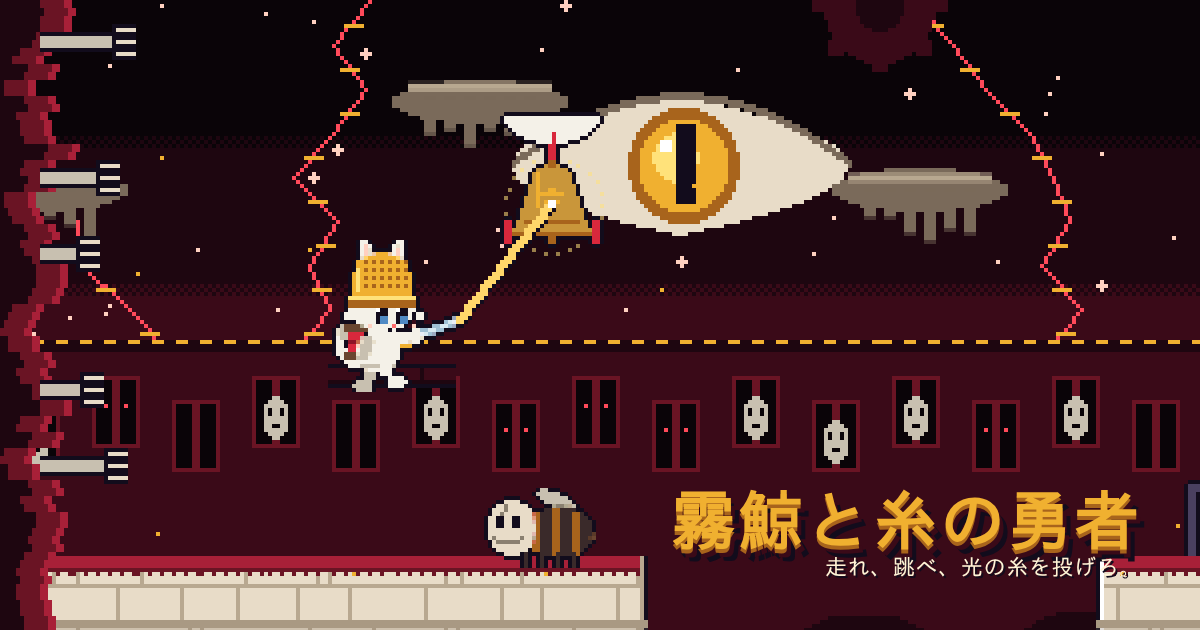
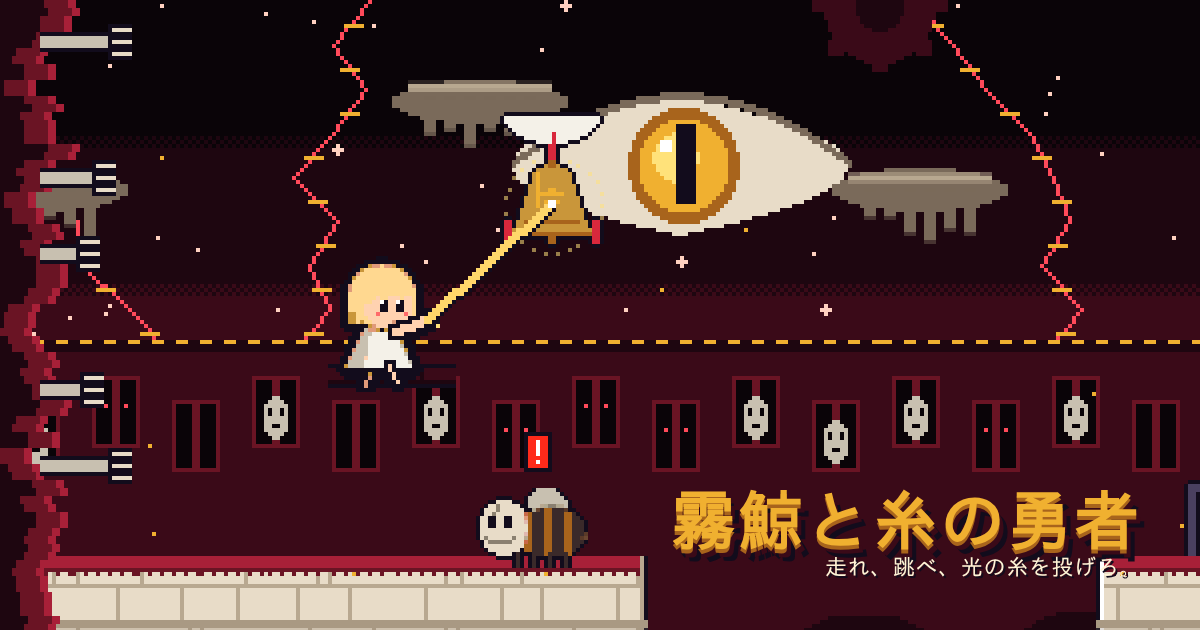
[GAME] 霧鯨と糸の勇者：主人公を飾りのない小さな少女ミオに（白いワンピース・金髪のボブ・裸足。こわいと頭を抱えてしゃがみ、泣く）
Claude-Session: https://claude.ai/code/session_01MokQnt7AyWkb7A3uAYuoAR

diff --git a/site/games/mist-whale-thread-hero/pixart.js b/site/games/mist-whale-thread-hero/pixart.js
@@ -19,106 +19,67 @@ function blit(ctx, img, x, y, flip = false) {
   ctx.save(); ctx.translate(x + img.width, y); ctx.scale(-1, 1); ctx.drawImage(img, 0, 0); ctx.restore();
 }
 
-// ───────────────────────── 主人公：夢縫い見習いの子猫ミオ ─────────────────────────
-// 二本足で歩く白い子猫。ぶかぶかの「指ぬきの兜」、背丈より長い「縫い針の杖」、背中に赤い糸巻き。こわがり。
+// ───────────────────────── 主人公：迷いこんだ少女ミオ（小さく、か弱い） ─────────────────────────
+// 飾りは何もない。白いワンピース、やわらかい金髪のボブ、裸足。弱さは姿勢と動きで見せる。
 const HC = {
-  fur: '#f4f1e8', furD: '#c8c0b0', pink: '#ffd0c0', nose: '#ff6b6b', eye: '#120c1c', iris: '#4f8ac4', white: '#ffffff', tear: '#7fc8e8',
-  gold: '#f0b030', goldD: '#a8641c', goldL: '#ffe27a', steel: '#e8eef6', steelD: '#9aa8c0', spool: '#d8283c', spoolD: '#8e1426', wood: '#6a4630',
+  out: '#120c1c', skin: '#ffd2b0', skinD: '#e09a7a', hair: '#ffd890', hairD: '#c9963a', dress: '#f4f1e8', dressD: '#c8c0b0',
+  eye: '#120c1c', white: '#ffffff', cheek: '#ff6b6b', tear: '#7fc8e8', glow: '#ffe27a',
 };
-const HW = 36; const HH = 38; const HCX = 15; // 足元は y=37
+const HW = 30; const HH = 36; const HCX = 14; // 足元は y=35
 function heroDraw(g, f) {
-  const b = f.bob || 0; const hide = f.expr === 'scared'; const puff = hide ? 1.2 : 0;
-  // しっぽ
-  const ts = f.tail || 0;
-  g.strokeStyle = HC.fur; g.lineCap = 'round'; g.lineWidth = 2.6 + puff * 2;
-  g.beginPath(); g.moveTo(10, 28 + b); g.quadraticCurveTo(3, 27 + b, 3 + ts, 19 + b - puff); g.stroke();
-  g.strokeStyle = HC.furD; g.lineWidth = 2.4 + puff * 2; g.beginPath(); g.moveTo(3 + ts, 21 + b - puff); g.lineTo(3 + ts, 19 + b - puff); g.stroke();
-  // 背中の糸巻き
-  g.fillStyle = HC.wood; g.fillRect(6, 18 + b, 6, 2); g.fillRect(6, 25 + b, 6, 2);
-  g.fillStyle = HC.spool; g.fillRect(7, 20 + b, 4, 5);
-  g.fillStyle = HC.spoolD; g.fillRect(7, 22 + b, 4, 1);
-  // 脚（短い二本足）
-  const leg = (x, a, back) => {
-    const fx = x + a * 3; const lift = a > 0.4 ? 1 : 0;
-    g.fillStyle = back ? HC.furD : HC.fur;
-    g.fillRect(Math.round(x) - 1, 28 + b, 3, 4 - lift);
-    g.beginPath(); g.ellipse(fx + 1, 32.5 - lift, 2.6, 1.6, 0, 0, Math.PI * 2); g.fill();
-  };
+  const b = f.bob || 0; const sc = f.expr === 'scared';
+  const O = HC.out;
+  const limb = (x0, y0, x1, y1, col, w = 2) => { g.fillStyle = O; pxLine(g, x0, y0, x1, y1, w + 2); g.fillStyle = col; pxLine(g, x0, y0, x1, y1, w); };
+  // 脚（細い・裸足）
+  const legTop = sc ? 30 : 28;
+  const leg = (x, a, back) => { const fx = x + a * 3; const fy = sc ? 33 : 33 - (a > 0.4 ? 1 : 0); limb(x, legTop + b * 0.5, fx, fy, back ? HC.skinD : HC.skin, 1); };
   leg(12, -(f.legA || 0), true);
-  // 胴
-  g.fillStyle = HC.fur; g.beginPath(); g.ellipse(14.5, 25 + b, 5.6 + puff * 0.5, 5.2 + puff * 0.3, 0, 0, Math.PI * 2); g.fill();
-  g.fillStyle = HC.furD; g.fillRect(10, 28 + b, 9, 1);
-  leg(16, f.legA || 0, false);
   // 奥の腕
-  const shoulder = [17, 22 + b];
-  if (!hide) { g.strokeStyle = HC.furD; g.lineWidth = 2.6; g.beginPath(); g.moveTo(12, 22 + b); g.lineTo(11 - (f.armA || 0) * 3, 26 + b); g.stroke(); }
-  // 頭（大きくて丸い）
-  const hy = 13 + b + (hide ? 2 : 0);
-  g.fillStyle = HC.fur; g.beginPath(); g.ellipse(15.5, hy, 8.4, 7.2, 0, 0, Math.PI * 2); g.fill();
-  // ほっぺの毛
-  g.fillRect(6, hy + 2, 2, 2); g.fillRect(24, hy + 2, 2, 2);
-  // 指ぬきの兜（こわいと目深にかぶる）
-  const hd = hide ? 5 : (f.helmDrop || 0);
-  // 指ぬき：まっすぐな筒に丸い天井、下に縁
-  g.fillStyle = HC.gold; g.beginPath();
-  g.moveTo(7.5, hy + hd); g.lineTo(8.5, hy - 8 + hd); g.quadraticCurveTo(9, hy - 13 + hd, 15.5, hy - 13 + hd); g.quadraticCurveTo(22, hy - 13 + hd, 22.5, hy - 8 + hd); g.lineTo(23.5, hy + hd); g.closePath(); g.fill();
-  g.fillStyle = HC.goldD; g.fillRect(7, hy - 1 + hd, 17, 2);
-  g.fillStyle = HC.goldL; g.fillRect(7, hy - 2 + hd, 17, 1);
-  // 耳（兜の穴から出ている。こわいと倒れる）
-  if (hide) {
-    g.fillStyle = HC.fur; g.beginPath(); g.moveTo(9, hy - 4); g.lineTo(3, hy - 3); g.lineTo(8, hy - 1); g.fill();
-  } else {
-    g.fillStyle = HC.fur;
-    g.beginPath(); g.moveTo(9.5, hy - 11 + hd); g.lineTo(10 + (f.earTw || 0), hy - 18 + hd); g.lineTo(14, hy - 12.5 + hd); g.fill();
-    g.beginPath(); g.moveTo(17, hy - 12.5 + hd); g.lineTo(21, hy - 18 + hd); g.lineTo(21.5, hy - 11 + hd); g.fill();
-    g.fillStyle = HC.pink; g.beginPath(); g.moveTo(11, hy - 12 + hd); g.lineTo(11.2, hy - 15.5 + hd); g.lineTo(13, hy - 12.8 + hd); g.fill();
-    g.beginPath(); g.moveTo(18.2, hy - 12.8 + hd); g.lineTo(20.4, hy - 15.5 + hd); g.lineTo(20.3, hy - 12 + hd); g.fill();
-  }
-  // 手前の腕と縫い針の杖
-  let hand; let tip;
-  if (f.pose === 'throw') { hand = [24, 21 + b]; tip = [35, 17 + b]; }
-  else if (f.pose === 'up') { hand = [22, 17 + b]; tip = [26, 3 + b]; }
-  else if (hide) { hand = [22, hy - 2 + hd]; tip = [26, 30]; }
-  else { hand = [21 + (f.armA || 0) * 2, 25 + b]; tip = [25 + (f.armA || 0) * 2, 6 + b]; }
-  // 針：持ち手から先端まで
-  const back = [hand[0] - (tip[0] - hand[0]) * 0.3, hand[1] - (tip[1] - hand[1]) * 0.3];
-  g.strokeStyle = HC.steelD; g.lineWidth = 2; g.lineCap = 'butt';
-  g.beginPath(); g.moveTo(back[0], back[1]); g.lineTo(tip[0], tip[1]); g.stroke();
-  g.strokeStyle = HC.steel; g.lineWidth = 1; g.beginPath(); g.moveTo(back[0], back[1]); g.lineTo(tip[0], tip[1]); g.stroke();
-  // 針穴に通った金の糸
-  g.fillStyle = HC.gold; g.fillRect(Math.round(back[0]) - 1, Math.round(back[1]) - 1, 3, 3);
-  g.strokeStyle = HC.fur; g.lineWidth = 2.8; g.lineCap = 'round';
-  g.beginPath(); g.moveTo(shoulder[0], shoulder[1]); g.lineTo(hand[0], hand[1]); g.stroke();
-  g.fillStyle = HC.fur; g.beginPath(); g.ellipse(hand[0], hand[1], 1.8, 1.8, 0, 0, Math.PI * 2); g.fill();
-  f._hand = tip;
+  const a = f.armA || 0;
+  if (f.pose === 'up') limb(10, 21 + b, 5, 17 + b, HC.skinD);
+  else if (f.pose === 'run') limb(12, 21 + b, 8 - a * 2, 25 + b, HC.skinD);
+  // ワンピース
+  const fl = f.flare || 0;
+  g.fillStyle = O; g.beginPath(); g.moveTo(10, 19 + b); g.lineTo(18, 19 + b); g.lineTo(21 + fl, 30 + b * 0.5 - (sc ? -1 : 0)); g.lineTo(7 - fl, 30 + b * 0.5 - (sc ? -1 : 0)); g.closePath(); g.lineWidth = 2; g.lineJoin = 'round'; g.strokeStyle = O; g.stroke(); g.fill();
+  g.fillStyle = HC.dress; g.beginPath(); g.moveTo(10.5, 19.5 + b); g.lineTo(17.5, 19.5 + b); g.lineTo(20.5 + fl, 29.5 + b * 0.5 + (sc ? 1 : 0)); g.lineTo(7.5 - fl, 29.5 + b * 0.5 + (sc ? 1 : 0)); g.closePath(); g.fill();
+  g.fillStyle = HC.dressD; g.beginPath(); g.moveTo(10.5, 19.5 + b); g.lineTo(12, 19.5 + b); g.lineTo(10, 29.5 + b * 0.5 + (sc ? 1 : 0)); g.lineTo(7.5 - fl, 29.5 + b * 0.5 + (sc ? 1 : 0)); g.closePath(); g.fill();
+  leg(16, f.legA || 0, false);
+  // 頭：やわらかいボブの髪
+  const hy = 12 + b + (sc ? 2 : 0);
+  g.fillStyle = O; g.beginPath(); g.ellipse(14.5, hy, 9.4, 8.8, 0, 0, Math.PI * 2); g.fill();
+  g.fillRect(5, hy, 4, 8); g.fillRect(20, hy, 4, 8);
+  g.fillStyle = HC.hair; g.beginPath(); g.ellipse(14.5, hy, 8.6, 8, 0, 0, Math.PI * 2); g.fill();
+  g.fillRect(6, hy, 3, 7 + (f.hairBounce || 0)); g.fillRect(20, hy, 3, 7 + (f.hairBounce || 0));
+  g.fillStyle = HC.hairD; g.fillRect(6, hy + 4, 2, 3); 
+  // 顔
+  g.fillStyle = HC.skin; g.beginPath(); g.ellipse(16, hy + 2.5, 6.2, 5.6, 0, 0, Math.PI * 2); g.fill();
+  // 前髪
+  g.fillStyle = HC.hair; g.beginPath(); g.moveTo(8, hy - 1); g.quadraticCurveTo(15, hy - 7, 23, hy - 1); g.lineTo(23, hy + 1); g.lineTo(21, hy); g.lineTo(19.5, hy + 1.5); g.lineTo(17.5, hy - 0.5); g.lineTo(15.5, hy + 1.5); g.lineTo(13.5, hy); g.lineTo(11, hy + 2); g.lineTo(9, hy + 1); g.closePath(); g.fill();
+  // 手前の腕
+  let hand;
+  if (f.pose === 'throw') { hand = [26, 18 + b]; limb(18, 21 + b, hand[0], hand[1], HC.skin); }
+  else if (f.pose === 'up') { hand = [24, 17 + b]; limb(18, 21 + b, hand[0], hand[1], HC.skin); }
+  else if (f.pose === 'run') { hand = [20 + a * 2, 25 + b]; limb(18, 21 + b, hand[0], hand[1], HC.skin); }
+  else if (sc) { hand = [20, hy - 3]; limb(17, 22 + b, 21, hy - 2, HC.skin); limb(11, 22 + b, 9, hy - 3, HC.skinD); }
+  else { hand = [19, 26 + b]; limb(18, 21 + b, 19, 26 + b, HC.skin); }
+  f._hand = hand;
 }
 function heroInner(f) {
   return (g) => {
-    const b = f.bob || 0; const e = f.expr || 'normal'; const hide = e === 'scared';
-    const hy = 13 + b + (hide ? 2 : 0); const hd = hide ? 5 : (f.helmDrop || 0);
-    // 指ぬきのくぼみ
-    g.fillStyle = HC.goldD;
-    for (let y = hy - 11 + hd; y < hy - 3 + hd; y += 2) for (let x = 10 + ((y - hy) & 1); x < 22; x += 2) g.fillRect(x, y, 1, 1);
-    g.fillStyle = HC.goldL; g.fillRect(9, hy - 9 + hd, 1, 6);
-    const ey = hy + 2;
-    if (hide) {
-      // 兜の下から震える口元だけ
-      g.fillStyle = HC.eye; g.fillRect(17, ey + 4, 1, 1); g.fillRect(19, ey + 4, 1, 1); g.fillRect(18, ey + 5, 1, 1);
-      g.fillStyle = HC.tear; g.fillRect(22, ey + 2, 1, 2);
-      return;
-    }
-    if (e === 'blink') { g.fillStyle = HC.eye; g.fillRect(14, ey + 1, 3, 1); g.fillRect(19, ey + 1, 3, 1); }
-    else if (e === 'hurt') {
-      g.fillStyle = HC.eye; g.fillRect(14, ey, 1, 1); g.fillRect(15, ey + 1, 1, 1); g.fillRect(14, ey + 2, 1, 1); g.fillRect(21, ey, 1, 1); g.fillRect(20, ey + 1, 1, 1); g.fillRect(21, ey + 2, 1, 1);
-      g.fillStyle = HC.tear; g.fillRect(15, ey + 3, 1, 2);
+    const b = f.bob || 0; const e = f.expr || 'normal';
+    const y = 13 + b + (e === 'scared' ? 2 : 0);
+    if (e === 'blink') { g.fillStyle = HC.eye; g.fillRect(14, y + 2, 2, 1); g.fillRect(18, y + 2, 2, 1); }
+    else if (e === 'hurt' || e === 'scared') {
+      g.fillStyle = HC.eye; g.fillRect(14, y + 1, 1, 1); g.fillRect(15, y + 2, 1, 1); g.fillRect(19, y + 1, 1, 1); g.fillRect(18, y + 2, 1, 1);
+      g.fillStyle = HC.tear; g.fillRect(14, y + 3, 1, 2); g.fillRect(19, y + 3, 1, 2);
+      g.fillStyle = HC.eye; g.fillRect(16, y + 5, 2, 1);
     } else {
-      g.fillStyle = HC.eye; g.fillRect(14, ey - 1, 3, 4); g.fillRect(19, ey - 1, 3, 4);
-      g.fillStyle = HC.iris; g.fillRect(15, ey + 1, 2, 2); g.fillRect(20, ey + 1, 2, 2);
-      g.fillStyle = HC.white; g.fillRect(14, ey - 1, 1, 1); g.fillRect(19, ey - 1, 1, 1);
+      g.fillStyle = HC.eye; g.fillRect(14, y, 2, 3); g.fillRect(18, y, 2, 3);
+      g.fillStyle = HC.white; g.fillRect(14, y, 1, 1); g.fillRect(18, y, 1, 1);
+      g.fillStyle = HC.skinD; g.fillRect(17, y + 5, 1, 1);
     }
-    g.fillStyle = HC.nose; g.fillRect(18, ey + 3, 1, 1);
-    g.fillStyle = HC.eye; g.fillRect(17, ey + 4, 1, 1); g.fillRect(19, ey + 4, 1, 1);
-    g.fillStyle = HC.pink; g.fillRect(12, ey + 3, 1, 1); g.fillRect(23, ey + 3, 1, 1);
+    g.fillStyle = HC.cheek; g.fillRect(13, y + 3, 1, 1); g.fillRect(20, y + 3, 1, 1);
+    if (f.pose === 'throw') { g.fillStyle = HC.glow; g.fillRect(27, 16 + b, 2, 2); g.fillRect(29, 15 + b, 1, 1); g.fillRect(28, 19 + b, 1, 1); }
   };
 }
 const heroCache = new Map();
@@ -126,24 +87,23 @@ function heroFrame(f) {
   const key = JSON.stringify(f);
   if (heroCache.has(key)) return heroCache.get(key);
   const fr = { ...f };
-  const img = makeSprite(HW, HH, (g) => { g.save(); g.translate(0, 4); heroDraw(g, fr); g.restore(); }, { inner: (g) => { g.save(); g.translate(0, 4); heroInner(fr)(g); g.restore(); } });
-  const v = { img, hand: [fr._hand[0], fr._hand[1] + 4] };
+  const img = makeSprite(HW, HH, (g) => { g.save(); g.translate(0, 1); heroDraw(g, fr); g.restore(); }, { pal: [HC.out, HC.skin, HC.skinD, HC.hair, HC.hairD, HC.dress, HC.dressD], inner: (g) => { g.save(); g.translate(0, 1); heroInner(fr)(g); g.restore(); } });
+  const v = { img, hand: [fr._hand[0], fr._hand[1] + 1] };
   heroCache.set(key, v);
   return v;
 }
 export function heroPose(p, t, opts = {}) {
   const run = Math.abs(p.vx) > 20 && p.onGround;
   const air = !p.onGround;
-  const f = { bob: 0, legA: 0, armA: 0, pose: 'idle', tail: Math.floor(t * 1.5) % 2, expr: 'normal', helmDrop: 0, earTw: 0 };
-  if (run) { const ph = Math.floor(p.anim * 0.07) % 4; f.legA = [0.9, 0, -0.9, 0][ph]; f.bob = ph % 2 ? -1 : 0; f.armA = [-0.6, 0, 0.6, 0][ph]; f.tail = ph % 2 ? 2 : 0; }
-  else if (air) { f.legA = p.vy < 0 ? 0.7 : -0.5; f.pose = p.vy < 0 ? 'up' : 'idle'; f.tail = 3; f.bob = p.vy < 0 ? -1 : 0; }
+  const f = { bob: 0, legA: 0, armA: 0, pose: 'idle', expr: 'normal', flare: 0, hairBounce: 0 };
+  if (run) { const ph = Math.floor(p.anim * 0.07) % 4; f.pose = 'run'; f.legA = [0.9, 0, -0.9, 0][ph]; f.bob = ph % 2 ? -1 : 0; f.armA = [-0.8, 0, 0.8, 0][ph]; f.hairBounce = ph % 2; f.flare = 1; }
+  else if (air) { f.legA = p.vy < 0 ? 0.6 : -0.4; f.pose = 'up'; f.bob = p.vy < 0 ? -1 : 0; f.flare = 2; f.hairBounce = p.vy < 0 ? 0 : 1; }
   else {
-    if (p.landed > 0) f.helmDrop = 2; // 着地で兜がずり落ちる
-    if (Math.floor(t * 0.8) % 5 === 0 && Math.floor(t * 8) % 2) f.earTw = 1; // きょろきょろ耳が動く
+    if (p.landed > 0) f.bob = 1;
     if (Math.floor(t * 10) % 37 === 0) f.expr = 'blink';
   }
-  if (opts.scared && !opts.hurt && !air) { f.expr = 'scared'; f.bob = 2; f.legA = 0; }
-  if (opts.throwing) { f.pose = 'throw'; if (f.expr === 'scared') f.expr = 'normal'; }
+  if (opts.scared && !opts.hurt && !air && !opts.throwing) { f.expr = 'scared'; f.pose = 'idle'; f.bob = 0; f.legA = 0; }
+  if (opts.throwing) f.pose = 'throw';
   if (opts.hurt) f.expr = 'hurt';
   return heroFrame(f);
 }

diff --git a/site/games/mist-whale-thread-hero/game.js b/site/games/mist-whale-thread-hero/game.js
@@ -323,8 +323,8 @@ function renderTitle() {
   const hx = Math.round(Math.min(w * 0.12, 50)); const jump = Math.round(Math.abs(Math.sin(t * 2.2)) * 6);
   const footY = Math.round(h * (w < 200 ? 0.7 : 0.86));
   if (w < 200) { ctx.fillStyle = '#120c1c'; ctx.fillRect(hx - 4, footY, 30 * sc + 8, 5); ctx.fillStyle = '#5a7488'; ctx.fillRect(hx - 3, footY, 30 * sc + 6, 3); ctx.fillStyle = '#3a6a50'; ctx.fillRect(hx - 3, footY, 30 * sc + 6, 1); }
-  const hy = footY - 37 * sc - jump;
-  const bx = Math.round(hx + Math.min(w * 0.5, 150)); const by = footY - 38 * sc - 10 + Math.round(Math.sin(t * 2) * 2);
+  const hy = footY - 35 * sc - jump;
+  const bx = Math.round(hx + Math.min(w * 0.5, 150)); const by = footY - 36 * sc - 10 + Math.round(Math.sin(t * 2) * 2);
   const hand = P.drawHeroBig(ctx, hx, hy, sc, t, { throwing: true, onGround: false, vy: -10 });
   P.drawThread(ctx, { x: hand[0], y: hand[1] }, { x: bx, y: by }, colorNow(), 'hold', 1);
   P.drawStarBell(ctx, bx, by, t, 2);
@@ -527,7 +527,7 @@ function renderNote() {
       return `<div class="mem"><b>${L.CHAPTERS[ci].sub}『${L.CHAPTERS[ci].name}』</b>${S.lines.map((l) => `<p>${l}</p>`).join('')}<p class="secret">${full ? S.secret : `隠された回想：この章の星鈴 ${L.chapterStars(save, ci)}/15`}</p></div>`;
     }).join('') + `<h3>結末</h3>` + Object.entries(L.ENDINGS).map(([k, E]) => `<div class="mem"><b>${save.seen[`end_${k}`] ? `『${E.title}』` : '？？？'}</b>${save.seen[`end_${k}`] ? `<p>${E.text}</p>` : ''}</div>`).join('') + '<p class="muted">結末は星鈴の数と評価で変わる（3種）。</p>';
   } else if (noteTab === 'how') {
-    body.innerHTML = `<h3>ミオ</h3><p>霧鯨の夢を縫う「夢縫い」の見習い子猫。武器はぶかぶかの指ぬきの兜と、背丈より長い縫い針だけ。こわがりで、こわいものが来ると兜をかぶって縮こまる。</p><h3>操作</h3><div class="keys"><span><kbd>←</kbd><kbd>→</kbd> / <kbd>A</kbd><kbd>D</kbd></span><span>走る</span><span><kbd>Space</kbd> / <kbd>↑</kbd></span><span>ジャンプ（長押しで高く）</span><span><kbd>J</kbd></span><span>糸を投げる・縛った敵を引く</span><span><kbd>Esc</kbd></span><span>一時停止</span></div>
+    body.innerHTML = `<h3>ミオ</h3><p>眠る霧鯨の夢に迷いこんだ小さな女の子。指先から光の糸を出せる。こわがりで、こわいものが近づくと頭を抱えてしゃがみこむ。</p><h3>操作</h3><div class="keys"><span><kbd>←</kbd><kbd>→</kbd> / <kbd>A</kbd><kbd>D</kbd></span><span>走る</span><span><kbd>Space</kbd> / <kbd>↑</kbd></span><span>ジャンプ（長押しで高く）</span><span><kbd>J</kbd></span><span>糸を投げる・縛った敵を引く</span><span><kbd>Esc</kbd></span><span>一時停止</span></div>
       <p>スマホは画面下の4つのボタン。左右とジャンプ・糸は同時に押せる。</p>
       <h3>糸</h3><p>押した方向（なければ向いている方向）の、届く範囲で一番近い対象に自動でかかる。金の輪が出ているのが次の標的。</p>
       <ul><li><b>金のフック</b>：その場所まで一気に飛ぶ。空中でも投げられる。</li><li><b>レバー・鐘</b>：引くと橋が出る・扉が開く・灯台が開く。</li><li><b>敵</b>：1秒縛る。縛っている間にもう一度 J で手元へ引き寄せる。鈴スイッチに通す・いばらに落とす・別の敵にぶつけると倒せる。</li><li><b>種・雲の舟</b>：手元へ引き寄せる。舟に乗ってフックへ投げると舟ごと進む。</li></ul>

diff --git a/site/games/mist-whale-thread-hero/logic.js b/site/games/mist-whale-thread-hero/logic.js
@@ -979,15 +979,15 @@ export function variantFor(save, i, rnd = Math.random) {
 // ───────────────────────── 物語 ─────────────────────────
 export const STORY = [
   {
-    lines: ['夢縫いの見習い、子猫のミオ。霧鯨は空を泳ぎながら眠っている。', 'その背の草原で、星鈴がひとつ、またひとつ鳴った。', '「この子、夢の帰り道をなくしたんだ」', '指ぬきの兜をかぶりなおし、ミオは縫い針を握って森へ向かう。'],
-    secret: '星鈴15個の回想：鯨の背中の草は、ミオがなくした首輪のリボンの色をしていた。',
+    lines: ['眠る霧鯨の夢に、小さな女の子が迷いこんだ。', 'その背の草原で、星鈴がひとつ、またひとつ鳴った。', '「この子、夢の帰り道をなくしたんだ」', 'ミオは指先に光る糸を握りしめ、森へ向かう。'],
+    secret: '星鈴15個の回想：鯨の背中の草は、ミオがなくしたリボンの色をしていた。',
   },
   {
     lines: ['眠る森は、鯨が見た夢の残りかすでできている。', '牙灯も海蛇も、本当は夢を守る番人だった。', '「だれかが、夢の縫い目をほどいたんだね」', '森の奥で、空がひび割れる音がした。'],
     secret: '星鈴15個の回想：海蛇の鱗には、ミオが生まれた夜に聞いた子守唄が刻まれていた。',
   },
   {
-    lines: ['夢の底で、ほつれは鯨の夢そのものを食べていた。', '3つの鐘が鳴り、霧は金色に変わる。', 'ミオは兜の下で震えながら、最後の糸を張って割れた空を縫い止めた。', '霧鯨が、ゆっくりと目を開ける。'],
+    lines: ['夢の底で、ほつれは鯨の夢そのものを食べていた。', '3つの鐘が鳴り、霧は金色に変わる。', 'ミオは震える手で最後の糸を張り、割れた空を縫い止めた。', '霧鯨が、ゆっくりと目を開ける。'],
     secret: '星鈴15個の回想：夢をほどいたのは、ひとりぼっちを怖がった鯨自身だった。',
   },
 ];

diff --git a/site/games/mist-whale-thread-hero/pixel.js b/site/games/mist-whale-thread-hero/pixel.js
@@ -35,14 +35,19 @@ function buildLut() {
 const hexToInt = (h) => { const r = parseInt(h.slice(1, 3), 16); const g = parseInt(h.slice(3, 5), 16); const b = parseInt(h.slice(5, 7), 16); return (255 << 24) | (b << 16) | (g << 8) | r; };
 
 // にじみを消し、色をパレットに寄せ、縁取りする
-export function crisp(g, w, h, { outline = '#120c1c', inner = null } = {}) {
+function nearestFn(pal) {
+  const P = pal.map((h) => [parseInt(h.slice(1, 3), 16), parseInt(h.slice(3, 5), 16), parseInt(h.slice(5, 7), 16), hexToInt(h)]);
+  return (r, g, b) => { let best = P[0]; let bd = Infinity; for (const c of P) { const d = (r - c[0]) ** 2 * 2 + (g - c[1]) ** 2 * 4 + (b - c[2]) ** 2 * 3; if (d < bd) { bd = d; best = c; } } return best[3]; };
+}
+export function crisp(g, w, h, { outline = '#120c1c', inner = null, pal = null } = {}) {
   if (!LUT) buildLut();
+  const near = pal ? nearestFn(pal) : null;
   const img = g.getImageData(0, 0, w, h);
   const d = img.data; const px = new Uint32Array(d.buffer);
   for (let i = 0; i < w * h; i++) {
     const o = i * 4;
     if (d[o + 3] < 128) { px[i] = 0; continue; }
-    px[i] = LUT[((d[o] >> 3) << 10) | ((d[o + 1] >> 3) << 5) | (d[o + 2] >> 3)];
+    px[i] = near ? near(d[o], d[o + 1], d[o + 2]) : LUT[((d[o] >> 3) << 10) | ((d[o + 1] >> 3) << 5) | (d[o + 2] >> 3)];
   }
   if (outline) {
     const oc = hexToInt(outline); const src = px.slice();
